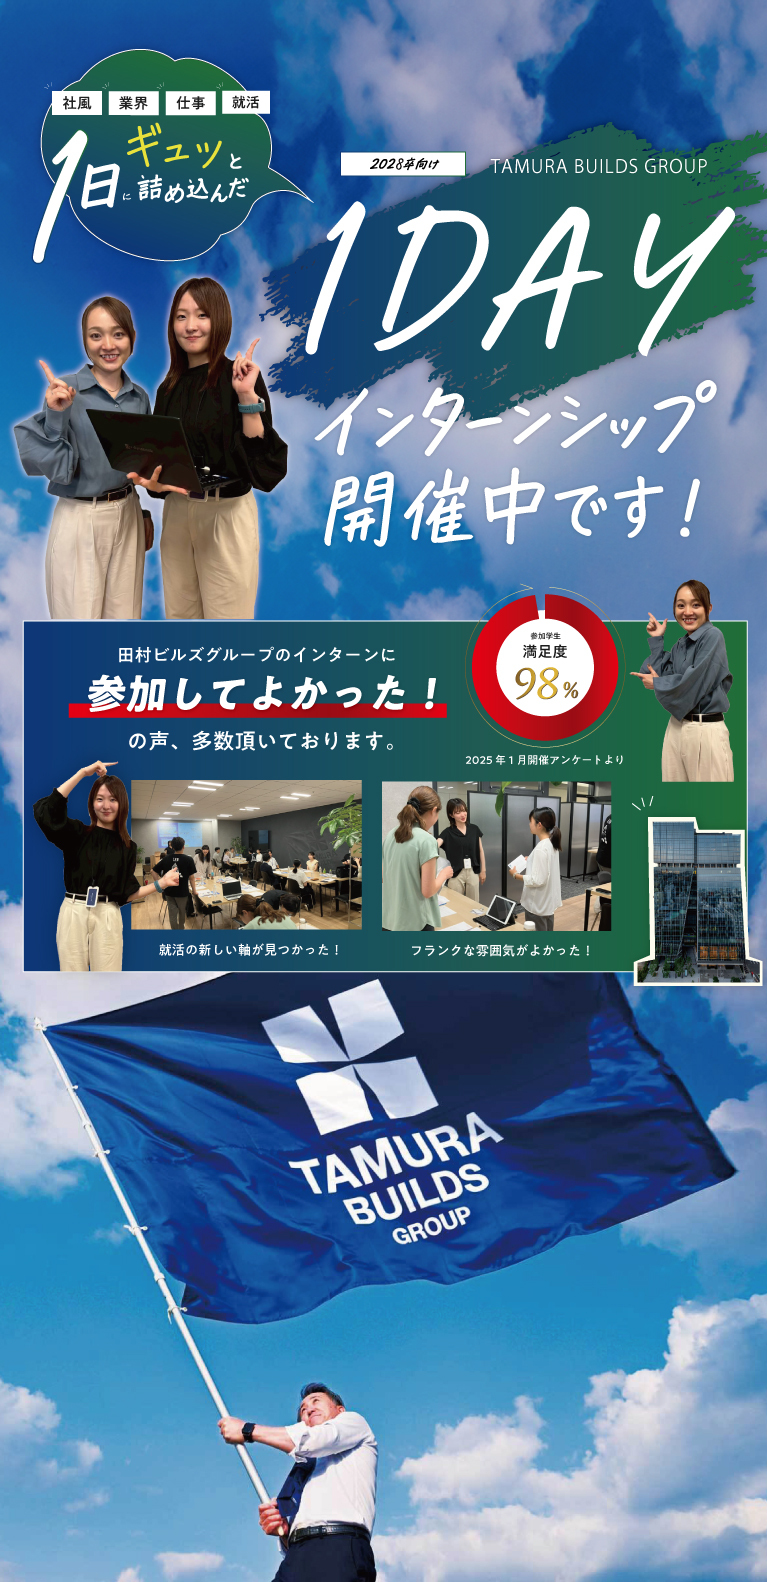
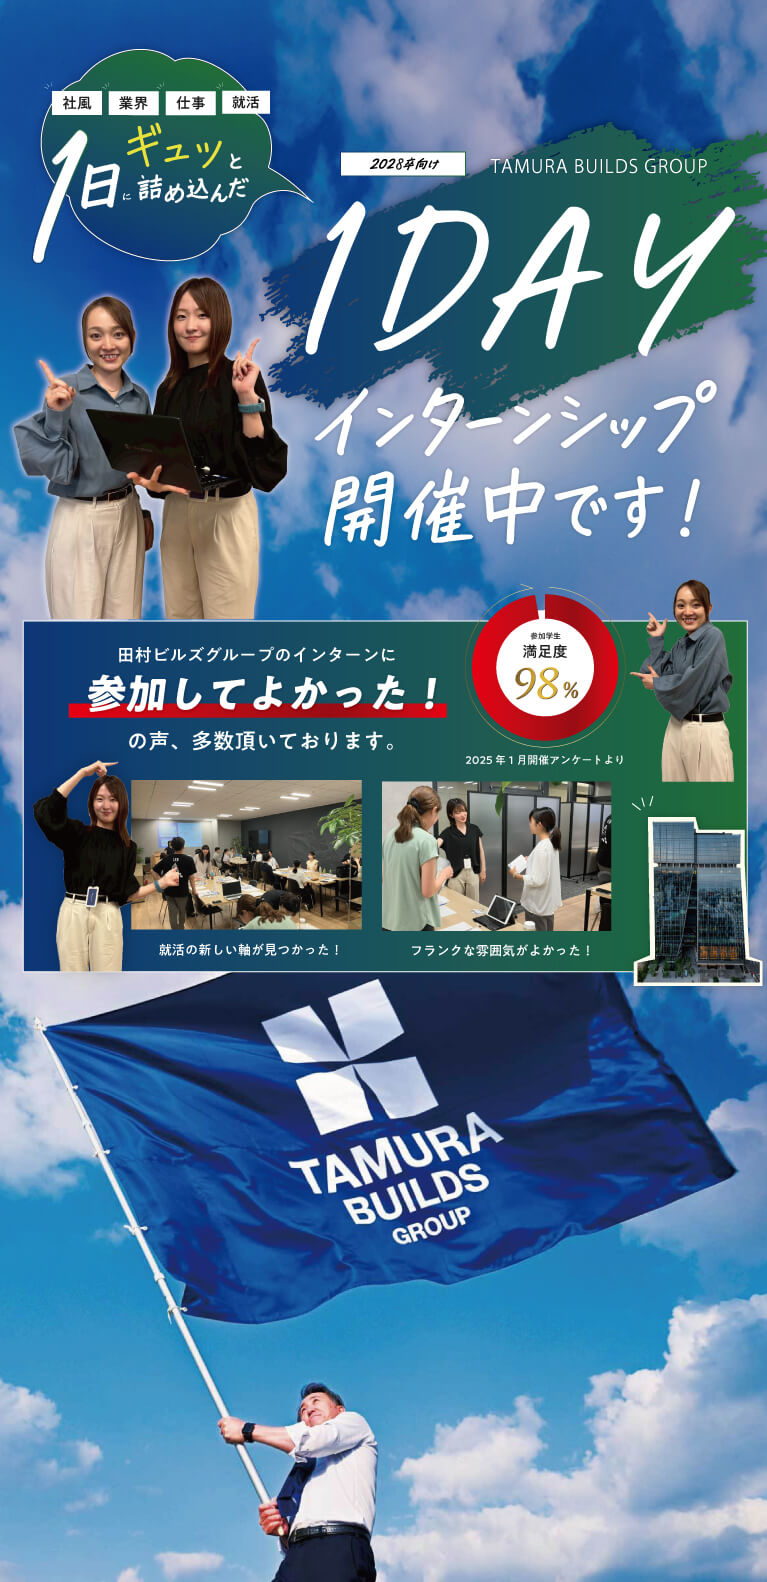
fix: FV画像を軽量化 + srcsetの本番フォールバック対応
FV画像（1.jpg, 1_sp.jpg）を圧縮版に差し替え。
production-media-fallback.phpにwp_calculate_image_srcsetフィルターを追加し、
srcset属性のURLも本番にフォールバックするよう修正。

Changed region(s): [[0.1799, 0.0619, 0.2099, 0.0929]]

diff --git a/wp-content/mu-plugins/production-media-fallback.php b/wp-content/mu-plugins/production-media-fallback.php
@@ -3,13 +3,32 @@
  * Production Media Fallback
  * ローカルに存在しないメディアファイルを本番URLから読み込む
  */
+
+define('PRODUCTION_URL', 'https://tamura-builds.co.jp/recruit');
+
+// src属性のフォールバック
 add_filter('wp_get_attachment_url', function ($url) {
     $upload_dir = wp_upload_dir();
     $file_path  = str_replace($upload_dir['baseurl'], $upload_dir['basedir'], $url);
 
     if (!file_exists($file_path)) {
-        $url = str_replace(home_url(), 'https://tamura-builds.co.jp/recruit', $url);
+        $url = str_replace(home_url(), PRODUCTION_URL, $url);
     }
 
     return $url;
+});
+
+// srcset属性のフォールバック
+add_filter('wp_calculate_image_srcset', function ($sources) {
+    $upload_dir = wp_upload_dir();
+
+    foreach ($sources as &$source) {
+        $file_path = str_replace($upload_dir['baseurl'], $upload_dir['basedir'], $source['url']);
+
+        if (!file_exists($file_path)) {
+            $source['url'] = str_replace(home_url(), PRODUCTION_URL, $source['url']);
+        }
+    }
+
+    return $sources;
 });
